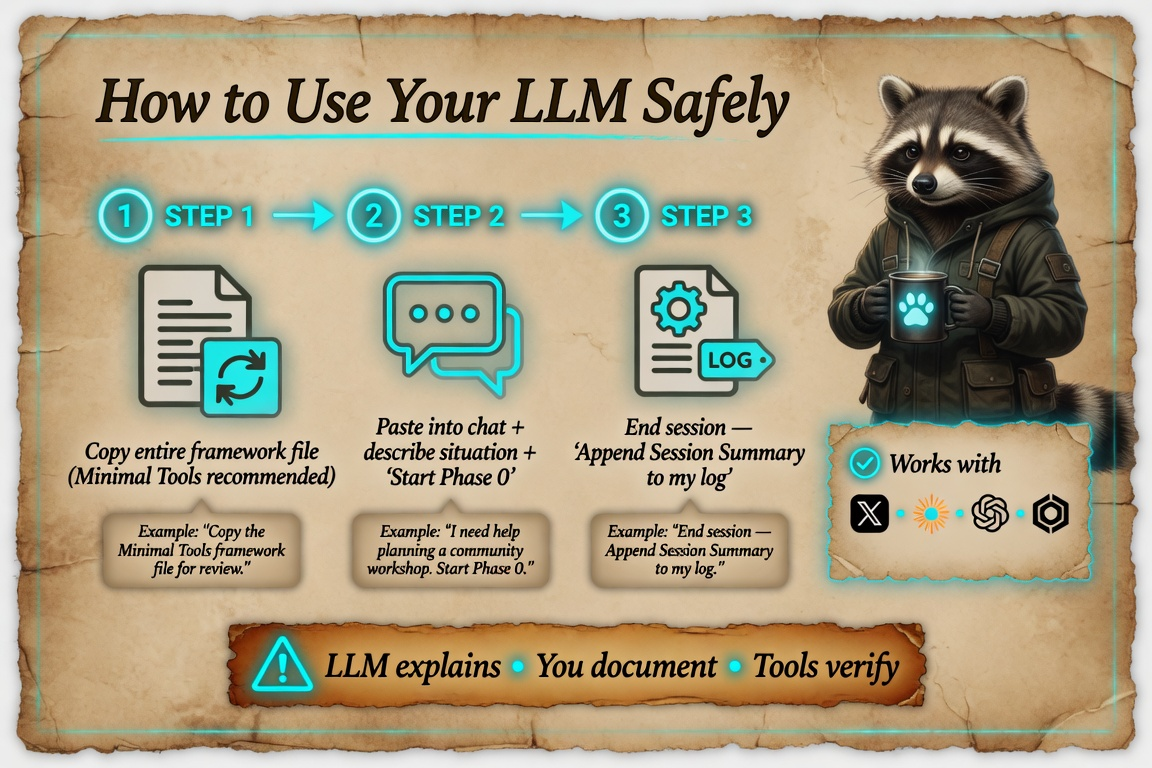
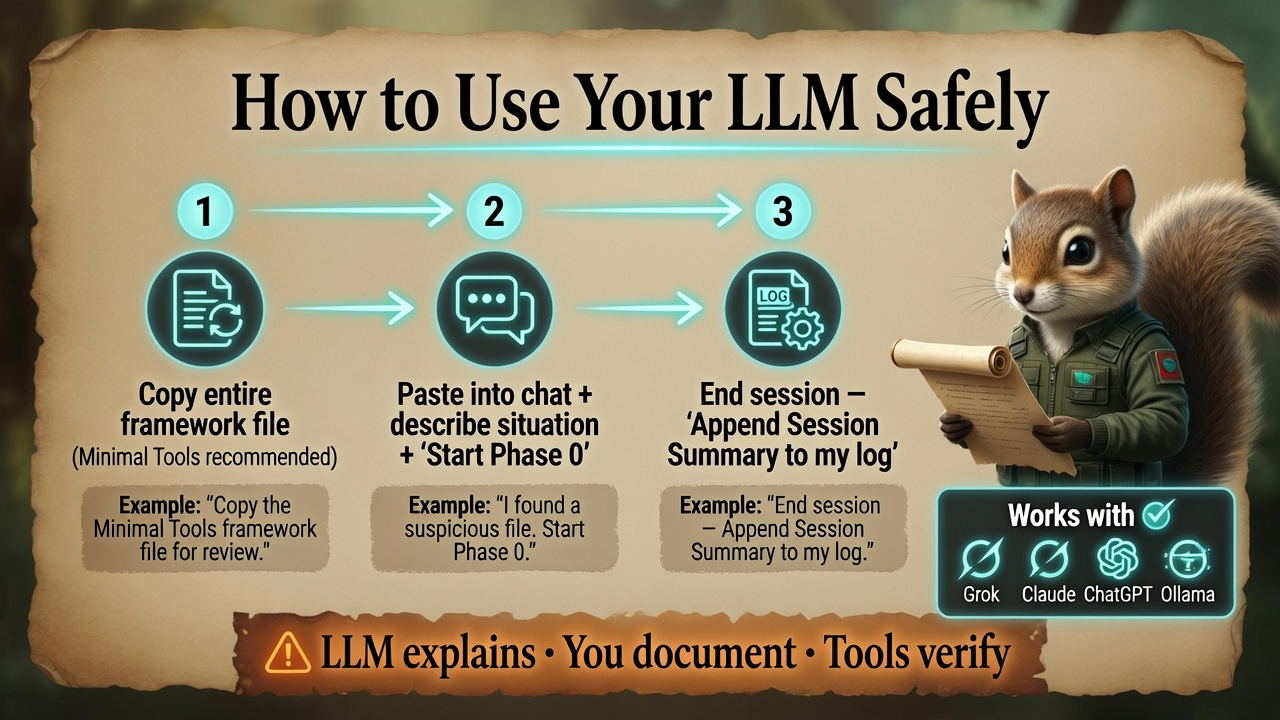
Ship When-to-Escalate and Squirrel LLM infographs; wire gallery
- Add When-to-Escalate.jpg to hub, README, escalate guide

- Phase 7b CI/PR documented in Next-Steps and CONTRIBUTING

diff --git a/web/index.html b/web/index.html
@@ -128,8 +128,17 @@
         <img src="../Infographs/LLM-Co-Pilot-Flow.jpg" width="960" height="540" alt="Three-step LLM workflow: copy framework file, paste into chat with Start Phase 0, end session with append session summary to log. Footer: LLM explains, you document, tools verify.">
         <figcaption>
           <strong>LLM co-pilot flow</strong>
-          Safe session pattern. Reprompt in progress (Squirrel mascot).
+          Safe session pattern — Squirrel mascot, Phase 0 framing.
           <a href="../My_Security_Investigation_Framework_v1.0.md">Paste-in framework</a>
+        </figcaption>
+      </figure>
+
+      <figure>
+        <img src="../Infographs/When-to-Escalate.jpg" width="768" height="1024" alt="Vertical decision tree titled When to Escalate. Start: review findings. Q1 data theft financial loss or ransomware — escalate immediately. Q2 persistence and beaconing — escalate strong recommendation. Q3 personally targeted or unsafe — escalate. Q4 multiple future timestamps scripts odd network — consider escalating. Q5 still unsure — escalate better safe than sorry, else continue light monitoring. End: prepare package and choosing professional help. Owl mascot beside ladder. Footer: Panic destroys evidence, calm wins.">
+        <figcaption>
+          <strong>When to escalate</strong>
+          Decision ladder — verify against <a href="../Infograph_When-to-Escalate.svg">SVG</a> for exact labels.
+          <a href="../Start-Guide/When-and-How_to-Escalate.md">When &amp; how to escalate</a>
         </figcaption>
       </figure>
 
@@ -163,11 +172,6 @@
           </tr>
         </thead>
         <tbody>
-          <tr>
-            <td>When-to-Escalate.jpg</td>
-            <td class="status-reprompt">Reprompt v2</td>
-            <td><a href="../Start-Guide/When-and-How_to-Escalate.md">When &amp; how to escalate</a></td>
-          </tr>
           <tr>
             <td>Your-Evidence-Package.jpg</td>
             <td class="status-reprompt">Reprompt v2</td>

diff --git a/Next-Steps_and_File-Path-Map.md b/Next-Steps_and_File-Path-Map.md
@@ -21,6 +21,12 @@ Personal_Security_Walkthrough/
 │   └── linux/ 
 │       └── My_Security_Framework_Linux_v1.1_Full_Deep_Dive.md
 ├── defense/                     ← Phase 5 DONE
+├── tools/                       ← Phase 7 DONE
+│   ├── scaffold_investigation_folder.py
+│   ├── validate_walkthrough_links.py
+│   └── blocklist_export_template.txt
+├── .github/workflows/
+│   └── validate-links.yml       ← Phase 7b CI (push + PR to main)
 ├── web/
 │   ├── index.html               ← Phase 6b DONE 2026-06-27 (v2 hub)
 │   ├── design-tokens.css
@@ -67,14 +73,15 @@ Personal_Security_Walkthrough/
 | `web/index.html` v2 — gallery, escalate criteria, platform table, HIBP prose | ✅ DONE | Agent |
 | `README.md` Visual section v2 | ✅ DONE | Agent |
 | Mascot assignment plan v1.2 | ✅ DONE (Agents-Designs-Ideas) | Agent |
-| Reprompt infographs (LLM Squirrel, Escalate, Evidence, Platform, Grid…) | 🎨 **User** | User |
+| Reprompt infographs (LLM Squirrel, Escalate, Evidence, Platform, Grid…) | 🎨 **User** — LLM + Escalate shipped | User |
 | Rename `0846e0d2-...jpg` → `Week-1-Stabilize.jpg` | ✅ DONE | User |
-| Legacy root `Infograph_*` → `Archived/` | ⏳ After v2 escalate JPG ships | Agent |
-| Git push | ⏳ When batch ready | Agent |
+| Legacy root `Infograph_*` → `Archived/` | ✅ DONE | Agent |
+| Git push | ✅ This session | Agent |
 
-**Phase 6c — blocked on User art:**
-- Swap gallery images when reprompts land
-- Update hub + README links if filenames change
+**Phase 6c — partial (User art landing):**
+- ✅ `LLM-Co-Pilot-Flow.jpg` (Squirrel), `When-to-Escalate.jpg` (Owl) on disk
+- Wire into web gallery + README when committed
+- Remaining: Evidence Package, Platform Safety, Block-and-Harden Grid
 
 **Phase 7 tools (DONE 2026-06-27):**
 - `tools/scaffold_investigation_folder.py` — dated Investigation_YYYY-MM-DD/ on reader machine
@@ -83,11 +90,21 @@ Personal_Security_Walkthrough/
 - `.github/workflows/validate-links.yml` — runs validator on push/PR to main
 - `tools/README.md`
 
+**Phase 7b — CI / Pull Requests (DONE 2026-06-27):**
+
+| What | Detail |
+|------|--------|
+| **PR** | Pull Request — proposed changes merged into `main` after review |
+| **Workflow** | `.github/workflows/validate-links.yml` |
+| **Triggers** | Every `pull_request` to `main` and every `push` to `main` |
+| **Check** | `python tools/validate_walkthrough_links.py` must pass |
+| **Contributor flow** | Fork → branch → PR → green check → merge (see CONTRIBUTING.md) |
+
 **Deferred (not required for walkthrough):**
 - Phase 6 curriculum — quiz + flashcards (`curriculum/`) — optional v2 community layer
 - Personal Security Command Center app — future (gem Section 10)
 
-**Next backlog:** Phase 6c gallery swap when User art lands; git push when ready
+**Next backlog:** Remaining infographs (Evidence, Platform, Grid); optional `export_blocklist.py`
 
 **Back Burner for Full context/scope of project: **
 README.md for the repo:

diff --git a/README.md b/README.md
@@ -115,12 +115,13 @@ v2 infographs live in [`Infographs/`](Infographs/) (parchment + cyan glow style)
 | [Investigation flow — six phases](Infographs/Investigation-Flow.jpg) | [Minimal Tools](minimal-tools/windows/My_Security_Framework_Windows-OS_v1.1_Minimal_Tools.md) |
 | [Document first](Infographs/Document-First.jpg) | [Quick Start](Start-Guide/Quick-Start-Guide.md) |
 | [LLM co-pilot flow](Infographs/LLM-Co-Pilot-Flow.jpg) | [Framework paste-in](My_Security_Investigation_Framework_v1.0.md) |
+| [When to escalate](Infographs/When-to-Escalate.jpg) | [When & How to Escalate](Start-Guide/When-and-How_to-Escalate.md) |
 | [Summary for professionals](Infographs/Summary-for-Professionals.jpg) | [Professional summary](Start-Guide/How-to-Prepare-a-Professional-Summary.md) |
 | [Week 1 — stabilize](Infographs/Week-1-Stabilize.jpg) | [Block and Harden](defense/Block-and-Harden.md) |
 
-**Escalate flowchart (exact text):** [Infograph_When-to-Escalate.svg](Infograph_When-to-Escalate.svg) · [When & How to Escalate](Start-Guide/When-and-How_to-Escalate.md)
+**Escalate flowchart (exact text fallback):** [Infograph_When-to-Escalate.svg](Infograph_When-to-Escalate.svg)
 
-Legacy flat v1 JPGs at repo root remain until v2 `When-to-Escalate.jpg` ships — see [Infographs/README.md](Infographs/README.md).
+Legacy flat v1 JPGs are in [Infographs/Archived/](Infographs/Archived/) — see [Infographs/README.md](Infographs/README.md).
 
 ---
 

diff --git a/Infographs/README.md b/Infographs/README.md
@@ -15,7 +15,8 @@ Parchment-style visual guides for the repo. **Style reference:** `Investigation-
 | [Personal-Security-Walkthrough.jpg](Personal-Security-Walkthrough.jpg) | Three-path overview | [Quick Start](../Start-Guide/Quick-Start-Guide.md) | Squirrel |
 | [Investigation-Flow.jpg](Investigation-Flow.jpg) | Six investigation phases | [Minimal Tools](../minimal-tools/windows/My_Security_Framework_Windows-OS_v1.1_Minimal_Tools.md) | Raccoon |
 | [Document-First.jpg](Document-First.jpg) | Scare tactics → document first | [Quick Start](../Start-Guide/Quick-Start-Guide.md) | Raccoon |
-| [LLM-Co-Pilot-Flow.jpg](LLM-Co-Pilot-Flow.jpg) | Safe LLM session steps | [Framework](../My_Security_Investigation_Framework_v1.0.md) | Squirrel *(reprompt — disk shows Raccoon)* |
+| [LLM-Co-Pilot-Flow.jpg](LLM-Co-Pilot-Flow.jpg) | Safe LLM session steps | [Framework](../My_Security_Investigation_Framework_v1.0.md) | Squirrel |
+| [When-to-Escalate.jpg](When-to-Escalate.jpg) | Decision ladder Q1–Q5 | [When & How to Escalate](../Start-Guide/When-and-How_to-Escalate.md) | Owl |
 | [Summary-for-Professionals.jpg](Summary-for-Professionals.jpg) | One-page pro summary | [Prepare summary](../Start-Guide/How-to-Prepare-a-Professional-Summary.md) | Fox |
 | [Week-1-Stabilize.jpg](Week-1-Stabilize.jpg) | Week 1 stabilize | [Block and Harden](../defense/Block-and-Harden.md) | Badger |
 
@@ -27,7 +28,6 @@ Parchment-style visual guides for the repo. **Style reference:** `Investigation-
 
 | Target file | Guide | Mascot |
 |-------------|-------|--------|
-| `When-to-Escalate.jpg` | [When & How to Escalate](../Start-Guide/When-and-How_to-Escalate.md) | Owl — match [SVG](../Infograph_When-to-Escalate.svg) text |
 | `Your-Evidence-Package.jpg` | [Escalate guide](../Start-Guide/When-and-How_to-Escalate.md) | Raccoon |
 | `Platform-Safety.jpg` | [Platform Safety](../defense/Platform-Safety-X-and-Social.md) | Fox |
 

diff --git a/Start-Guide/When-and-How_to-Escalate.md b/Start-Guide/When-and-How_to-Escalate.md
@@ -79,9 +79,9 @@ Use this section when you have finished your initial documentation and want a cl
 
 ### Infographic (image)
 
-![When to Escalate — decision flowchart (SVG)](../Infograph_When-to-Escalate.svg)
+![When to Escalate — decision flowchart](../Infographs/When-to-Escalate.jpg)
 
-*v2 parchment JPG coming in `Infographs/When-to-Escalate.jpg`. Legacy flat JPG: [Archived copy](../Infographs/Archived/Infograph_When-to-Escalate.jpg).*
+*Text-accurate version also available as [Infograph_When-to-Escalate.svg](../Infograph_When-to-Escalate.svg) (screen readers and printing). Legacy flat JPG: [Archived copy](../Infographs/Archived/Infograph_When-to-Escalate.jpg).*
 
 ### Visual flowchart (Mermaid)
 

diff --git a/CONTRIBUTING.md b/CONTRIBUTING.md
@@ -51,6 +51,8 @@ Use the issue templates when available (`.github/ISSUE_TEMPLATE/`).
    - Which files/platforms you tested or reviewed
    - Any security or ethics considerations
 
+**CI:** Pull requests to `main` run the internal link validator (`.github/workflows/validate-links.yml`). Fix broken relative links before merge. Locally: `python tools/validate_walkthrough_links.py`.
+
 ### 3. Content standards
 
 - **Commands:** Prefer built-in, read-only inspection (`stat`, Properties, `ss`, exports to CSV). Flag anything requiring admin rights or third-party uploads (e.g. VirusTotal) with a privacy note.